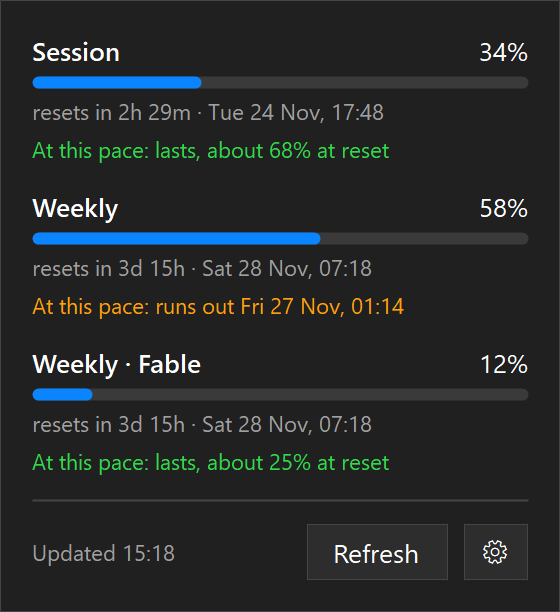
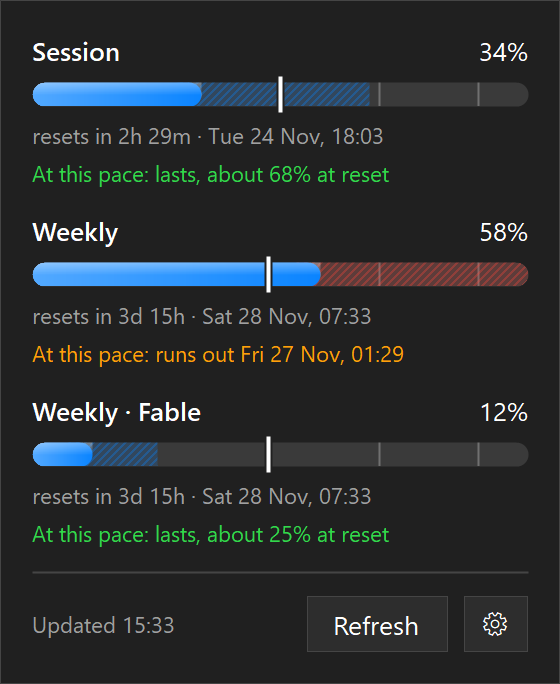
feat(windows): richer usage bar
Taller gradient bar with a hatched pace projection up to where usage ends
at reset, ticks at the 70% and 90% color thresholds, and a marker for how
much of the window has passed.

diff --git a/windows/ClaudeUsageBar/PanelForm.cs b/windows/ClaudeUsageBar/PanelForm.cs
@@ -211,8 +211,9 @@ sealed class PanelForm : Form
             }
             y += h + S(4);
 
-            if (g != null) DrawBar(g, new Rectangle(pad, y, width, S(6)), row.Percent);
-            y += S(6);
+            y += S(3); // room for the time marker, which sticks out of the bar
+            if (g != null) DrawBar(g, new Rectangle(pad, y, width, S(BarHeight)), row, now);
+            y += S(BarHeight) + S(3);
 
             if (row.ResetsAt is { } resetsAt)
                 y += S(4) + Line($"{UsageFormat.ResetDescription(resetsAt, now)} · {When(resetsAt)}", captionFont, theme.Secondary, y + S(4));
@@ -247,24 +248,74 @@ sealed class PanelForm : Form
         return y + buttonHeight + pad;
     }
 
-    void DrawBar(Graphics g, Rectangle r, double percent)
+    const int BarHeight = 12;
+
+    /// <summary>The usage bar: a gradient fill for what is used, a translucent extension up to where the
+    /// current pace ends at reset, faint ticks at the 70% and 90% color thresholds, and a marker for how
+    /// much of the window has passed (being left of it means using less than an even pace).</summary>
+    void DrawBar(Graphics g, Rectangle r, UsageRow row, DateTimeOffset now)
     {
-        using var track = new SolidBrush(theme.Track);
-        FillCapsule(g, track, r);
-        var filled = (int)Math.Round(r.Width * Math.Clamp(percent, 0, 100) / 100);
-        if (filled <= 0) return;
-        using var fill = new SolidBrush(percent >= 90 ? theme.Red : percent >= 70 ? theme.Orange : theme.Blue);
-        FillCapsule(g, fill, new Rectangle(r.X, r.Y, Math.Max(filled, r.Height), r.Height));
+        var percent = Math.Clamp(row.Percent, 0, 100);
+        var color = percent >= 90 ? theme.Red : percent >= 70 ? theme.Orange : theme.Blue;
+        int X(double p) => r.X + (int)Math.Round(r.Width * Math.Clamp(p, 0, 100) / 100);
+
+        using var trackPath = Capsule(r);
+        using (var track = new SolidBrush(theme.Track)) g.FillPath(track, trackPath);
+        var clip = g.Clip;
+        g.SetClip(trackPath);
+
+        using (var tick = new Pen(Color.FromArgb(70, theme.Fore), Math.Max(1, S(1))))
+            foreach (var threshold in new[] { 70, 90 }) g.DrawLine(tick, X(threshold), r.Top, X(threshold), r.Bottom);
+
+        var projected = Pace.Projection(row, now) switch
+        {
+            Projection.Lasts lasts => lasts.PercentAtReset,
+            Projection.RunsOut => 100,
+            _ => percent,
+        };
+        if (projected > percent)
+        {
+            var ghostColor = projected >= 90 ? theme.Red : projected >= 70 ? theme.Orange : color;
+            using var ghost = new HatchBrush(HatchStyle.WideUpwardDiagonal, Color.FromArgb(110, ghostColor), Color.FromArgb(45, ghostColor));
+            g.FillRectangle(ghost, Rectangle.FromLTRB(X(percent) - r.Height, r.Top, X(projected), r.Bottom));
+        }
+
+        if (percent > 0)
+        {
+            var fillRect = new Rectangle(r.X, r.Y, Math.Max(X(percent) - r.X, r.Height), r.Height);
+            using var fillPath = Capsule(fillRect);
+            using var fill = new LinearGradientBrush(fillRect, ControlPaint.Light(color, 0.6f), color, LinearGradientMode.Horizontal);
+            g.FillPath(fill, fillPath);
+            // Soft highlight on the upper half for depth.
+            using var shine = new LinearGradientBrush(new Rectangle(r.X, r.Y, r.Width, r.Height / 2 + 1),
+                Color.FromArgb(90, Color.White), Color.FromArgb(0, Color.White), LinearGradientMode.Vertical);
+            g.FillRectangle(shine, fillRect.X, fillRect.Y, fillRect.Width, r.Height / 2);
+        }
+        g.Clip = clip;
+
+        // Time marker: share of the window already elapsed.
+        if (row.ResetsAt is { } resetsAt && Pace.WindowLength(row.Group) is { } length)
+        {
+            var elapsed = 100 * (1 - (resetsAt - now).TotalSeconds / length.TotalSeconds);
+            if (elapsed is > 0 and < 100)
+            {
+                var x = X(elapsed);
+                using var outline = new Pen(theme.Back, S(4));
+                using var marker = new Pen(theme.Fore, S(2));
+                g.DrawLine(outline, x, r.Top - S(3), x, r.Bottom + S(3));
+                g.DrawLine(marker, x, r.Top - S(3), x, r.Bottom + S(3));
+            }
+        }
     }
 
-    static void FillCapsule(Graphics g, Brush brush, Rectangle r)
+    static GraphicsPath Capsule(Rectangle r)
     {
-        using var path = new GraphicsPath();
+        var path = new GraphicsPath();
         var d = r.Height;
         path.AddArc(r.X, r.Y, d, d, 90, 180);
         path.AddArc(r.Right - d, r.Y, d, d, 270, 180);
         path.CloseFigure();
-        g.FillPath(brush, path);
+        return path;
     }
 
     [DllImport("dwmapi.dll")]

diff --git a/README.md b/README.md
@@ -40,6 +40,7 @@ Requires macOS 13+ and [Claude Code](https://docs.claude.com/en/docs/claude-code
 The same app for the Windows system tray, with the same panel, pace projection and alerts:
 
 - the tray icon shows the session %; hover it for every limit. It turns orange when a limit's pace runs out before its reset and red from 90% used;
+- each bar also shows where the current pace ends at reset (hatched), ticks at 70% and 90%, and a white marker for how much of the window has passed: a fill left of the marker means you are using less than an even pace;
 - click the icon for the panel; Refresh is also Ctrl+R and Quit Ctrl+Q. Right-click the icon for Refresh, Open at login and Quit;
 - alerts arrive as Windows notifications, once per limit window, also across restarts;
 - open at login uses the per-user `Run` registry key, so it needs no admin rights. The app turns it on at first launch.
